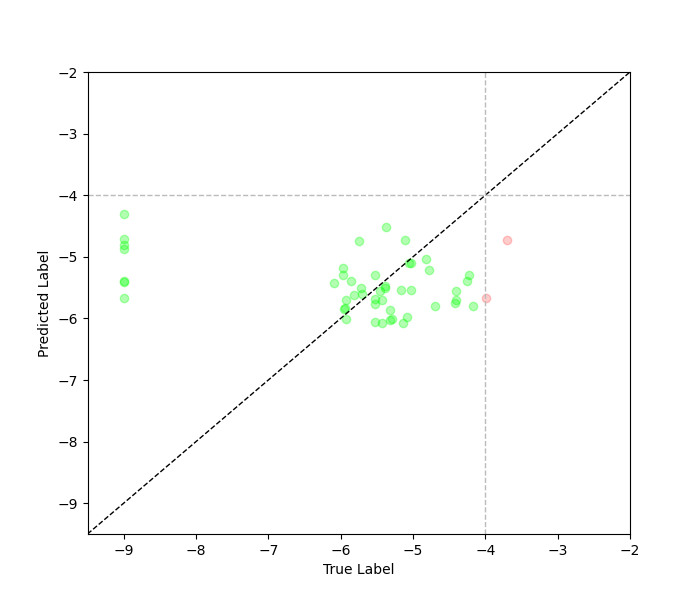
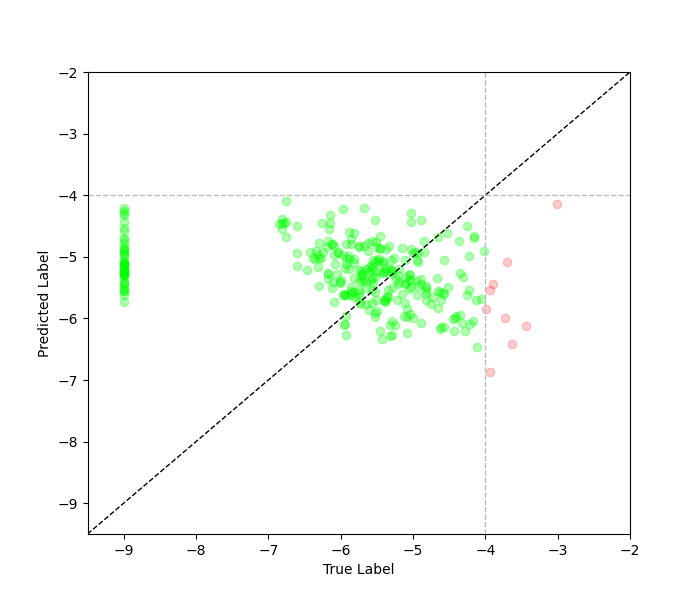
minor chanegs to SDO tutorials

diff --git a/tutorials/SDO/sdo_standard_fit.py b/tutorials/SDO/sdo_standard_fit.py
@@ -2,9 +2,7 @@
 Import packages
 """
 import imbal
-import os, glob, math
-from datetime import datetime, timedelta
-import pandas as pd
+import os
 import numpy as np
 import matplotlib.pyplot as plt
 from PIL import Image
@@ -13,58 +11,28 @@ from keras import layers, optimizers
 """
 Load data
 """
-SDO_DATA_PATH = '../data/SDOBenchmark'
-TRAINING_DATA_MAX_SIZE = 100
-TESTING_DATA_MAX_SIZE = 100
+SDO_DATA_PATH = '../data/SDOBenchmark' # Ensure data is located at this path
 
-def load_sdo_data(data_path, max_samples=None):
-    df = pd.read_csv(os.path.join(data_path, 'meta_data.csv'))
-    good_file_paths = []
-    good_file_fluxes = []
-    for i in range(len(df)):
-        timestamp_id = df['id'][i]
-        log_peak_flux = math.log10(float(df['peak_flux'][i]))
-        print(f'Finding data from "{data_path}" [{i+1}/{len(df["id"])}]', end='\r')
-        timestamp_portions = str(timestamp_id).split('_')
-        folder_path = str(os.path.join(data_path, timestamp_portions[0]))
-        sub_folder_path = str(os.path.join(folder_path, '_'.join(timestamp_portions[1:])))
-        if not os.path.exists(sub_folder_path):
-            continue
+def load_sdo_data(data_path):
+    # Load labels (log peak flux)
+    with open(os.path.join(data_path, 'log_peak_flux.txt'), 'r') as file:
+        contents = file.read().strip()
+        loaded_data_fluxes = np.array([float(x) for x in contents.split('\n')])
 
-        folder_timestamp = datetime.strptime("_".join(timestamp_portions[-4:-1]), '%H_%M_%S')
-        minus_ten_minutes = folder_timestamp - timedelta(minutes=10)
-        images = glob.glob(os.path.join(sub_folder_path, '*.jpg'))
+    # Load images (10 images per sample, 256x256 per image)
+    loaded_images = np.zeros((len(loaded_data_fluxes), 256, 256, 10), dtype=np.float32)
+    for i in range(len(loaded_data_fluxes)):
+        print(f'Loading SDO samples [{i+1}/{len(loaded_data_fluxes)}]', end='\r')
+        image_list = [Image.open(os.path.join(data_path, f'sdo_subset_sample_{i}_image_{x}.jpg')).convert('L') for x in range(10)]
+        stacked_images = np.stack(image_list, axis=-1) # Images stacked along channels
+        loaded_images[i] = stacked_images / 255.0 # Normalize black and white pixel values from 0 to 1
 
-        def within_five_seconds(image_name, timestamp):
-            image_time_string = image_name.split('T')[1][:6]
-            image_timestamp = datetime.strptime(image_time_string, '%H%M%S')
-            return abs((timestamp - image_timestamp).total_seconds()) < 5
-
-        minus_ten_images = [x for x in images if within_five_seconds(x, minus_ten_minutes)]
-        if len(minus_ten_images) == 10:
-            good_file_paths.append(minus_ten_images)
-            good_file_fluxes.append(log_peak_flux)
-
-        if max_samples is not None and len(good_file_paths) == max_samples:
-            print('\nFound maximum number of samples. Stopping early.',end='\r')
-            break
-
-
-    loaded_images = np.zeros((len(good_file_paths), 256, 256, 10))
-    loaded_data_fluxes = np.array(good_file_fluxes)
-
-    print()
-    for index, image_paths in enumerate(good_file_paths):
-        print(f'Loading SDO samples [{index+1}/{len(good_file_paths)}]', end='\r')
-        image_list = [Image.open(x).convert('L') for x in image_paths]
-        stacked_images = np.stack(image_list, axis=-1)
-        loaded_images[index] = stacked_images / 255.0
-
-    print(f'\n{len(good_file_paths)} data samples loaded successfully')
+    print(f'\n{len(loaded_data_fluxes)} data samples loaded successfully')
     return loaded_images, loaded_data_fluxes
 
-x_train, y_train = load_sdo_data(os.path.join(SDO_DATA_PATH, 'training'), max_samples=TRAINING_DATA_MAX_SIZE)
-x_test, y_test = load_sdo_data(os.path.join(SDO_DATA_PATH, 'test'), max_samples=TESTING_DATA_MAX_SIZE)
+# Load train and test data via function defined above
+x_train, y_train = load_sdo_data(os.path.join(SDO_DATA_PATH, 'training'))
+x_test, y_test = load_sdo_data(os.path.join(SDO_DATA_PATH, 'test'))
 
 print(
     f'Loaded data with the following shapes:\n'
@@ -103,8 +71,8 @@ model = build_simple_cnn()
 Compile and train model
 """
 LEARNING_RATE = 5e-5
-EPOCHS = 200
-BATCH_SIZE = 32
+EPOCHS = 20
+BATCH_SIZE = 64
 
 model.compile(
     optimizer=optimizers.Adam(learning_rate=LEARNING_RATE),
@@ -132,8 +100,16 @@ test_rare_mask = y_test > -4
 print('Number of rare training samples:', np.sum(train_rare_mask.astype(np.int32)))
 print('Number of rare testing samples:', np.sum(test_rare_mask.astype(np.int32)))
 
-train_predictions = model.predict(x_train).reshape(-1)
-test_predictions = model.predict(x_test).reshape(-1)
+train_predictions = []
+for i in range(0, len(x_train), BATCH_SIZE):
+    batch = x_train[i:i+BATCH_SIZE]
+    train_predictions.append(model.predict(batch))
+train_predictions = np.concatenate(train_predictions, axis=0)
+test_predictions = []
+for i in range(0, len(x_test), BATCH_SIZE):
+    batch = x_test[i:i+BATCH_SIZE]
+    test_predictions.append(model.predict(batch))
+test_predictions = np.concatenate(test_predictions, axis=0)
 
 train_predictions_rare = train_predictions[train_rare_mask]
 train_labels_rare = y_train[train_rare_mask]

diff --git a/tutorials/SDO/sdo_rrt_fit.py b/tutorials/SDO/sdo_rrt_fit.py
@@ -13,58 +13,28 @@ from keras import layers, optimizers
 """
 Load data
 """
-SDO_DATA_PATH = '../data/SDOBenchmark'
-TRAINING_DATA_MAX_SIZE = 50
-TESTING_DATA_MAX_SIZE = 50
+SDO_DATA_PATH = '../data/SDOBenchmark' # ensure data is located at this path
 
-def load_sdo_data(data_path, max_samples=None):
-    df = pd.read_csv(os.path.join(data_path, 'meta_data.csv'))
-    good_file_paths = []
-    good_file_fluxes = []
-    for i in range(len(df)):
-        timestamp_id = df['id'][i]
-        log_peak_flux = math.log10(float(df['peak_flux'][i]))
-        print(f'Finding data from "{data_path}" [{i+1}/{len(df["id"])}]', end='\r')
-        timestamp_portions = str(timestamp_id).split('_')
-        folder_path = str(os.path.join(data_path, timestamp_portions[0]))
-        sub_folder_path = str(os.path.join(folder_path, '_'.join(timestamp_portions[1:])))
-        if not os.path.exists(sub_folder_path):
-            continue
+def load_sdo_data(data_path):
+    # Load labels (log peak flux)
+    with open(os.path.join(data_path, 'log_peak_flux.txt'), 'r') as file:
+        contents = file.read().strip()
+        loaded_data_fluxes = np.array([float(x) for x in contents.split('\n')])
 
-        folder_timestamp = datetime.strptime("_".join(timestamp_portions[-4:-1]), '%H_%M_%S')
-        minus_ten_minutes = folder_timestamp - timedelta(minutes=10)
-        images = glob.glob(os.path.join(sub_folder_path, '*.jpg'))
+    # Load images (10 images per sample, 256x256 per image)
+    loaded_images = np.zeros((len(loaded_data_fluxes), 256, 256, 10), dtype=np.float32)
+    for i in range(len(loaded_data_fluxes)):
+        print(f'Loading SDO samples [{i+1}/{len(loaded_data_fluxes)}]', end='\r')
+        image_list = [Image.open(os.path.join(data_path, f'sdo_subset_sample_{i}_image_{x}.jpg')).convert('L') for x in range(10)]
+        stacked_images = np.stack(image_list, axis=-1) # Images stacked along channels
+        loaded_images[i] = stacked_images / 255.0 # Normalize black and white pixel values from 0 to 1
 
-        def within_five_seconds(image_name, timestamp):
-            image_time_string = image_name.split('T')[1][:6]
-            image_timestamp = datetime.strptime(image_time_string, '%H%M%S')
-            return abs((timestamp - image_timestamp).total_seconds()) < 5
-
-        minus_ten_images = [x for x in images if within_five_seconds(x, minus_ten_minutes)]
-        if len(minus_ten_images) == 10:
-            good_file_paths.append(minus_ten_images)
-            good_file_fluxes.append(log_peak_flux)
-
-        if max_samples is not None and len(good_file_paths) == max_samples:
-            print('\nFound maximum number of samples. Stopping early.',end='\r')
-            break
-
-
-    loaded_images = np.zeros((len(good_file_paths), 256, 256, 10))
-    loaded_data_fluxes = np.array(good_file_fluxes)
-
-    print()
-    for index, image_paths in enumerate(good_file_paths):
-        print(f'Loading SDO samples [{index+1}/{len(good_file_paths)}]', end='\r')
-        image_list = [Image.open(x).convert('L') for x in image_paths]
-        stacked_images = np.stack(image_list, axis=-1)
-        loaded_images[index] = stacked_images / 255.0
-
-    print(f'\n{len(good_file_paths)} data samples loaded successfully')
+    print(f'\n{len(loaded_data_fluxes)} data samples loaded successfully')
     return loaded_images, loaded_data_fluxes
 
-x_train, y_train = load_sdo_data(os.path.join(SDO_DATA_PATH, 'training'), max_samples=TRAINING_DATA_MAX_SIZE)
-x_test, y_test = load_sdo_data(os.path.join(SDO_DATA_PATH, 'test'), max_samples=TESTING_DATA_MAX_SIZE)
+# Load train and test data via function defined above
+x_train, y_train = load_sdo_data(os.path.join(SDO_DATA_PATH, 'training'))
+x_test, y_test = load_sdo_data(os.path.join(SDO_DATA_PATH, 'test'))
 
 print(
     f'Loaded data with the following shapes:\n'
@@ -112,8 +82,8 @@ model = build_simple_cnn()
 Compile and train model
 """
 LEARNING_RATE = 5e-5
-EPOCHS = 50
-BATCH_SIZE = 32
+EPOCHS = 20
+BATCH_SIZE = 64
 
 model.compile(
     optimizer=optimizers.Adam(learning_rate=LEARNING_RATE),
@@ -142,8 +112,16 @@ test_rare_mask = y_test > -4
 print('Number of rare training samples:', np.sum(train_rare_mask.astype(np.int32)))
 print('Number of rare testing samples:', np.sum(test_rare_mask.astype(np.int32)))
 
-train_predictions = model.predict(x_train).reshape(-1)
-test_predictions = model.predict(x_test).reshape(-1)
+train_predictions = []
+for i in range(0, len(x_train), BATCH_SIZE):
+    batch = x_train[i:i+BATCH_SIZE]
+    train_predictions.append(model.predict(batch))
+train_predictions = np.concatenate(train_predictions, axis=0)
+test_predictions = []
+for i in range(0, len(x_test), BATCH_SIZE):
+    batch = x_test[i:i+BATCH_SIZE]
+    test_predictions.append(model.predict(batch))
+test_predictions = np.concatenate(test_predictions, axis=0)
 
 train_predictions_rare = train_predictions[train_rare_mask]
 train_labels_rare = y_train[train_rare_mask]

diff --git a/tutorials/SDO/sdo_balanced_fit.py b/tutorials/SDO/sdo_balanced_fit.py
@@ -14,57 +14,27 @@ from keras import layers, optimizers
 Load data
 """
 SDO_DATA_PATH = '../data/SDOBenchmark'
-TRAINING_DATA_MAX_SIZE = 50
-TESTING_DATA_MAX_SIZE = 50
 
-def load_sdo_data(data_path, max_samples=None):
-    df = pd.read_csv(os.path.join(data_path, 'meta_data.csv'))
-    good_file_paths = []
-    good_file_fluxes = []
-    for i in range(len(df)):
-        timestamp_id = df['id'][i]
-        log_peak_flux = math.log10(float(df['peak_flux'][i]))
-        print(f'Finding data from "{data_path}" [{i+1}/{len(df["id"])}]', end='\r')
-        timestamp_portions = str(timestamp_id).split('_')
-        folder_path = str(os.path.join(data_path, timestamp_portions[0]))
-        sub_folder_path = str(os.path.join(folder_path, '_'.join(timestamp_portions[1:])))
-        if not os.path.exists(sub_folder_path):
-            continue
+def load_sdo_data(data_path):
+    # Load labels (log peak flux)
+    with open(os.path.join(data_path, 'log_peak_flux.txt'), 'r') as file:
+        contents = file.read().strip()
+        loaded_data_fluxes = np.array([float(x) for x in contents.split('\n')])
 
-        folder_timestamp = datetime.strptime("_".join(timestamp_portions[-4:-1]), '%H_%M_%S')
-        minus_ten_minutes = folder_timestamp - timedelta(minutes=10)
-        images = glob.glob(os.path.join(sub_folder_path, '*.jpg'))
+    # Load images (10 images per sample, 256x256 per image)
+    loaded_images = np.zeros((len(loaded_data_fluxes), 256, 256, 10), dtype=np.float32)
+    for i in range(len(loaded_data_fluxes)):
+        print(f'Loading SDO samples [{i+1}/{len(loaded_data_fluxes)}]', end='\r')
+        image_list = [Image.open(os.path.join(data_path, f'sdo_subset_sample_{i}_image_{x}.jpg')).convert('L') for x in range(10)]
+        stacked_images = np.stack(image_list, axis=-1) # Images stacked along channels
+        loaded_images[i] = stacked_images / 255.0 # Normalize black and white pixel values from 0 to 1
 
-        def within_five_seconds(image_name, timestamp):
-            image_time_string = image_name.split('T')[1][:6]
-            image_timestamp = datetime.strptime(image_time_string, '%H%M%S')
-            return abs((timestamp - image_timestamp).total_seconds()) < 5
-
-        minus_ten_images = [x for x in images if within_five_seconds(x, minus_ten_minutes)]
-        if len(minus_ten_images) == 10:
-            good_file_paths.append(minus_ten_images)
-            good_file_fluxes.append(log_peak_flux)
-
-        if max_samples is not None and len(good_file_paths) == max_samples:
-            print('\nFound maximum number of samples. Stopping early.',end='\r')
-            break
-
-
-    loaded_images = np.zeros((len(good_file_paths), 256, 256, 10))
-    loaded_data_fluxes = np.array(good_file_fluxes)
-
-    print()
-    for index, image_paths in enumerate(good_file_paths):
-        print(f'Loading SDO samples [{index+1}/{len(good_file_paths)}]', end='\r')
-        image_list = [Image.open(x).convert('L') for x in image_paths]
-        stacked_images = np.stack(image_list, axis=-1)
-        loaded_images[index] = stacked_images / 255.0
-
-    print(f'\n{len(good_file_paths)} data samples loaded successfully')
+    print(f'\n{len(loaded_data_fluxes)} data samples loaded successfully')
     return loaded_images, loaded_data_fluxes
 
-x_train, y_train = load_sdo_data(os.path.join(SDO_DATA_PATH, 'training'), max_samples=TRAINING_DATA_MAX_SIZE)
-x_test, y_test = load_sdo_data(os.path.join(SDO_DATA_PATH, 'test'), max_samples=TESTING_DATA_MAX_SIZE)
+# Load train and test data via function defined above
+x_train, y_train = load_sdo_data(os.path.join(SDO_DATA_PATH, 'training'))
+x_test, y_test = load_sdo_data(os.path.join(SDO_DATA_PATH, 'test'))
 
 print(
     f'Loaded data with the following shapes:\n'
@@ -112,8 +82,8 @@ model = build_simple_cnn()
 Compile and train model
 """
 LEARNING_RATE = 5e-5
-EPOCHS = 50
-BATCH_SIZE = 32
+EPOCHS = 20
+BATCH_SIZE = 64
 
 model.compile(
     optimizer=optimizers.Adam(learning_rate=LEARNING_RATE),
@@ -141,8 +111,16 @@ test_rare_mask = y_test > -4
 print('Number of rare training samples:', np.sum(train_rare_mask.astype(np.int32)))
 print('Number of rare testing samples:', np.sum(test_rare_mask.astype(np.int32)))
 
-train_predictions = model.predict(x_train).reshape(-1)
-test_predictions = model.predict(x_test).reshape(-1)
+train_predictions = []
+for i in range(0, len(x_train), BATCH_SIZE):
+    batch = x_train[i:i+BATCH_SIZE]
+    train_predictions.append(model.predict(batch))
+train_predictions = np.concatenate(train_predictions, axis=0)
+test_predictions = []
+for i in range(0, len(x_test), BATCH_SIZE):
+    batch = x_test[i:i+BATCH_SIZE]
+    test_predictions.append(model.predict(batch))
+test_predictions = np.concatenate(test_predictions, axis=0)
 
 train_predictions_rare = train_predictions[train_rare_mask]
 train_labels_rare = y_train[train_rare_mask]

diff --git a/docs/source/imbal/tutorials/tutorials.md b/docs/source/imbal/tutorials/tutorials.md
@@ -1,5 +1,6 @@
 # Tutorials
 
+- [Image regression on SDOBenchmark]()
 Image regression:
 - [Standard fit](SDO/regular_fit.md)
 - [Balanced fit](SDO/balanced_fit.md)
